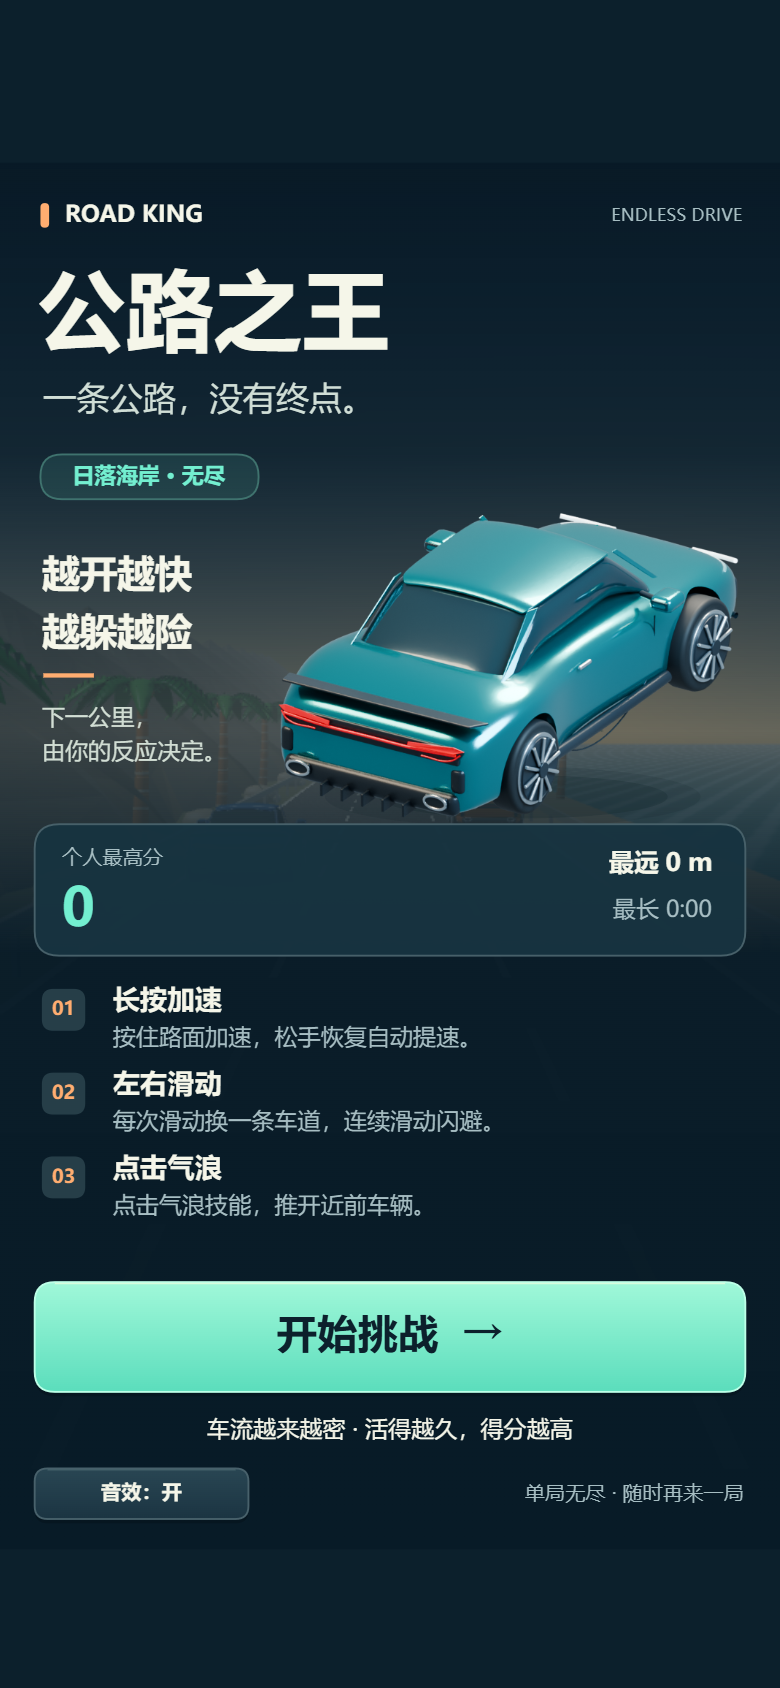
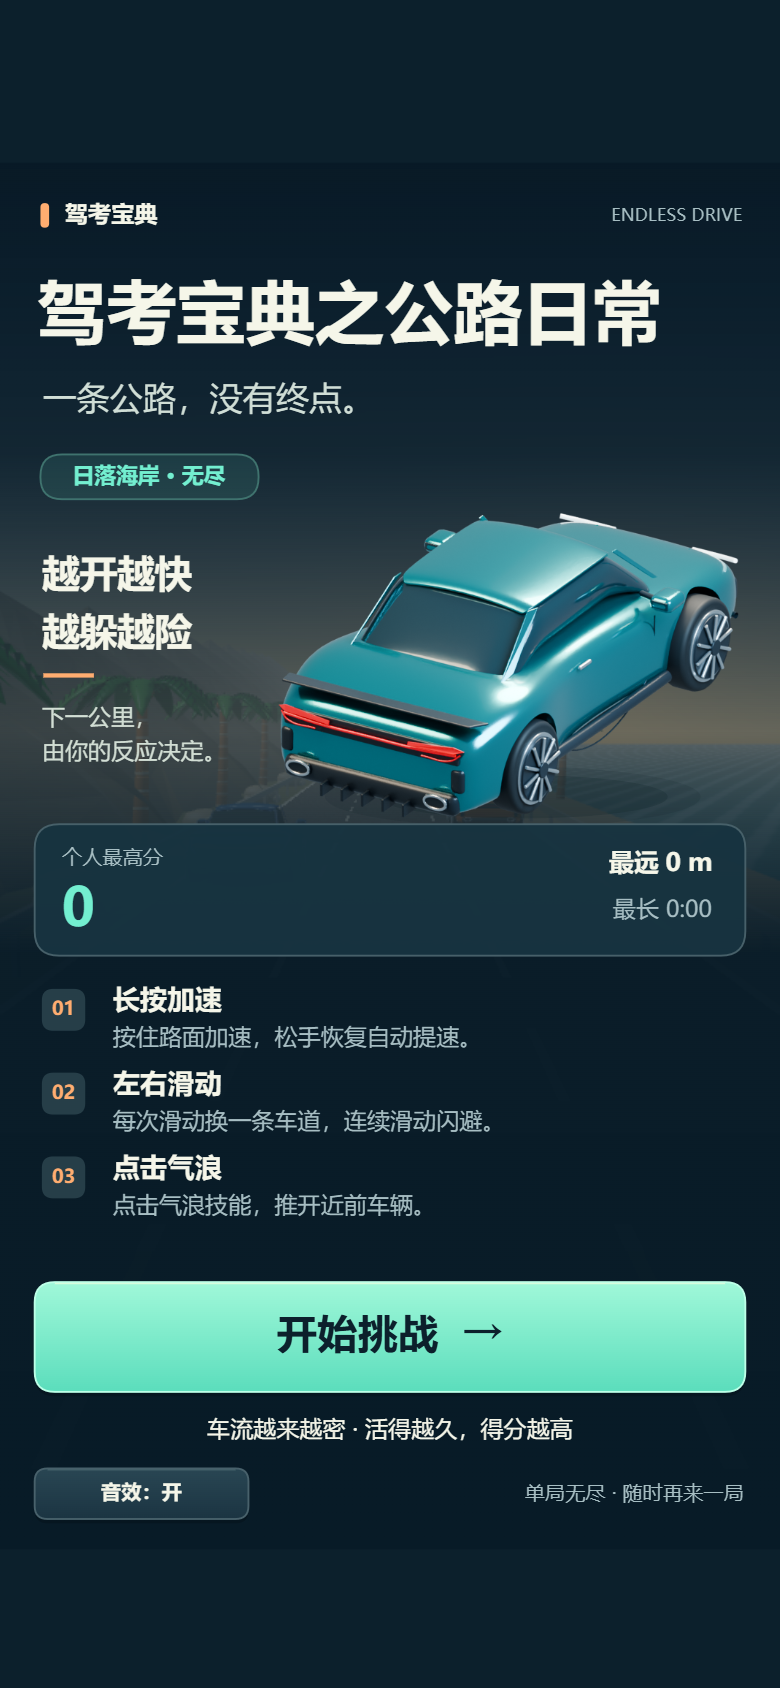
Rename game to 驾考宝典之公路日常

Changed region(s): [[0.0308, 0.1232, 0.8615, 0.2156]]

diff --git a/公路之王/src/game-app.js b/公路之王/src/game-app.js
@@ -223,8 +223,8 @@ class RoadKingApp {
   }
   drawMenu(){
     const c=this.ctx,fade=c.createLinearGradient(0,0,0,H);fade.addColorStop(0,'rgba(7,24,36,.98)');fade.addColorStop(.21,'rgba(8,27,39,.89)');fade.addColorStop(.41,'rgba(8,27,39,.50)');fade.addColorStop(.57,'rgba(8,27,39,.98)');fade.addColorStop(1,'rgba(8,27,39,1)');c.fillStyle=fade;c.fillRect(0,0,W,H);
-    this.rr(28,28,6,17,3,C.orange);this.txt('ROAD KING',45,37,16,C.white,'bold');this.txt('ENDLESS DRIVE',514,37,12,C.mute,'normal','right');
-    this.txt('公路之王',26,108,61,C.white,'bold');this.txt('一条公路，没有终点。',30,165,23,'#d0ded6');
+    this.rr(28,28,6,17,3,C.orange);this.txt('驾考宝典',45,37,16,C.white,'bold');this.txt('ENDLESS DRIVE',514,37,12,C.mute,'normal','right');
+    this.txt('驾考宝典之公路日常',26,108,48,C.white,'bold');this.txt('一条公路，没有终点。',30,165,23,'#d0ded6');
     this.rr(28,202,151,31,15,'rgba(88,192,171,.14)','#3f736e');this.txt('日落海岸 · 无尽',103,218,15,C.cyan,'bold','center');
     this.txt('越开越快',29,287,26,C.white,'bold');this.txt('越躲越险',29,327,26,C.white,'bold');this.line(30,355,65,355,C.orange,3);this.txt('下一公里，',29,385,16,'#d2ded4');this.txt('由你的反应决定。',29,409,16,'#d2ded4');
     if(this.art.hero){this.groundShadow(355,439,130,21);c.drawImage(this.art.hero,158,215,388,259);}else this.car(398,412,1.65,C.cyan,true,false);
@@ -260,7 +260,7 @@ class RoadKingApp {
     this.button(50,424,440,66,'继续挑战',()=>{this.releaseHolds();this.game.resume();},{primary:true});this.button(50,507,211,58,'重新开始',()=>this.start(),{size:20});this.button(279,507,211,58,'返回首页',()=>{this.releaseHolds();this.game.menu();},{size:20});this.button(50,593,440,52,this.muted?'音效：关':'音效：开',()=>this.toggleSound(),{size:18});
   }
   drawResult(){
-    const g=this.game;this.scrim();this.rr(24,158,492,675,23,C.panel,'#43606a');this.txt('ROAD KING  /  本局纪录',270,195,14,C.cyan,'bold','center');this.txt(this.newBest?'刷新个人纪录':'这一程，到这里',270,252,36,C.white,'bold','center');this.txt('下一次，试着再多坚持一公里。',270,299,18,C.mute,'normal','center');
+    const g=this.game;this.scrim();this.rr(24,158,492,675,23,C.panel,'#43606a');this.txt('驾考宝典之公路日常  /  本局纪录',270,195,14,C.cyan,'bold','center');this.txt(this.newBest?'刷新个人纪录':'这一程，到这里',270,252,36,C.white,'bold','center');this.txt('下一次，试着再多坚持一公里。',270,299,18,C.mute,'normal','center');
     this.txt('本局得分',270,354,16,C.mute,'normal','center');this.txt(Math.round(g.score),270,405,62,C.cyan,'bold','center');this.txt('最高分 '+Math.round(this.best.score),270,455,17,this.newBest?C.orange:C.mute,'bold','center');
     const stats=[['行驶距离',distance(g.distance)],['存活时间',duration(g.elapsed)],['最高时速',Math.round(g.maxSpeed||g.speed)+' km/h'],['成功躲避',number(g.dodged)+' 次']];
     stats.forEach((stat,i)=>{const x=i%2===0?150:390,y=i<2?507:591;this.txt(stat[0],x,y,15,C.mute,'normal','center');this.txt(stat[1],x,y+34,27,C.white,'bold','center');});

diff --git a/preview/index.html b/preview/index.html
@@ -4,7 +4,7 @@
   <meta charset="utf-8">
   <meta name="viewport" content="width=device-width, initial-scale=1, maximum-scale=1, user-scalable=no">
   <link rel="icon" href="data:,">
-  <title>公路之王 · 无尽挑战</title>
+  <title>驾考宝典之公路日常 · 无尽挑战</title>
   <style>
     :root { color-scheme: dark; font-family: "Microsoft YaHei", system-ui, sans-serif; }
     * { box-sizing: border-box; }
@@ -17,8 +17,8 @@
   </style>
 </head>
 <body>
-  <header><strong>公路之王 · 无尽挑战</strong><br>左右滑动换道 · 点击气浪技能 · 自动提速</header>
-  <canvas id="game" aria-label="公路之王游戏画布" tabindex="0"></canvas>
+  <header><strong>驾考宝典之公路日常 · 无尽挑战</strong><br>左右滑动换道 · 点击气浪技能 · 长按加速</header>
+  <canvas id="game" aria-label="驾考宝典之公路日常游戏画布" tabindex="0"></canvas>
   <pre id="error" role="alert"></pre>
   <script src="/preview/browser-platform.js"></script>
 </body>

diff --git a/tools/package_douyin_demo.py b/tools/package_douyin_demo.py
@@ -53,7 +53,7 @@ files.extend(root / p for p in (
 files.extend(p for p in (root / 'research/blender-preview').glob('*') if p.suffix in ('.json', '.png'))
 files.extend(p for p in (root / 'art/audio').glob('*') if p.is_file())
 assert all(p.is_file() for p in files), 'Missing delivery input'
-archive = target / '公路之王_实时三维版.zip'
+archive = target / '驾考宝典之公路日常_实时三维版.zip'
 with zipfile.ZipFile(archive, 'w', zipfile.ZIP_DEFLATED) as z:
     for p in sorted(set(files)):
         z.write(p, p.relative_to(root).as_posix())

diff --git a/公路之王/README.md b/公路之王/README.md
@@ -1,4 +1,4 @@
-# 公路之王 · 单关无尽版
+# 驾考宝典之公路日常 · 单关无尽版
 
 原生 JavaScript + WebGL 三维场景 / Canvas 界面竖屏小游戏。只有一条无限延伸的公路：存活越久，车辆越快，障碍越密集，连续换道与预判要求越高。耐久耗尽后结束，挑战最高分、最长距离和最长存活时间。
 

diff --git a/README.md b/README.md
@@ -1,4 +1,4 @@
-# 公路之王 · 无尽公路
+# 驾考宝典之公路日常 · 无尽公路
 
 当前版本为 **抖音原生 JavaScript + WebGL 三维场景 / Canvas 界面单关无尽驾驶小游戏**。取消选关与 75 秒终点，自动巡航越来越快，路障和车流逐渐密集，耐久耗尽后结算并挑战最高纪录。
 
